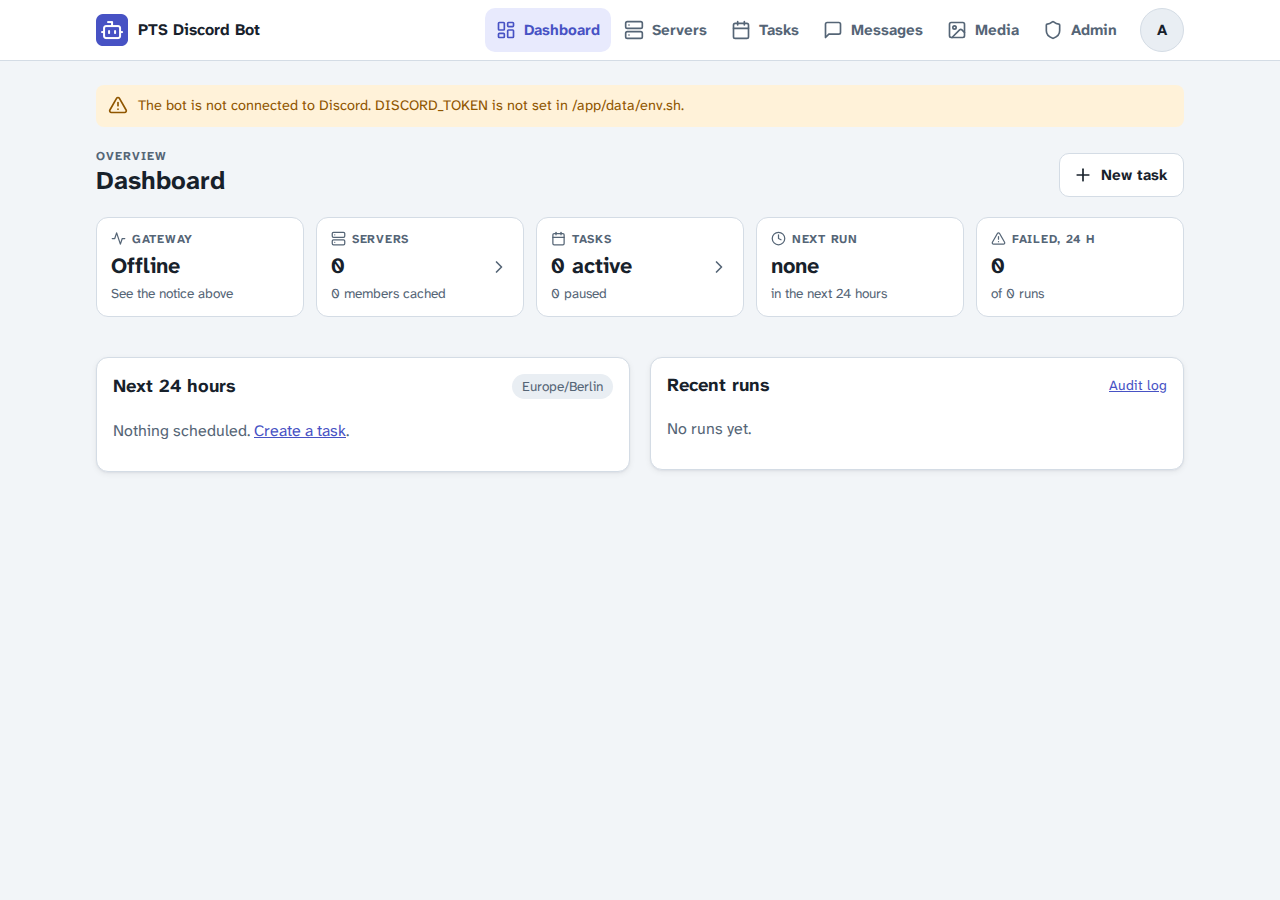
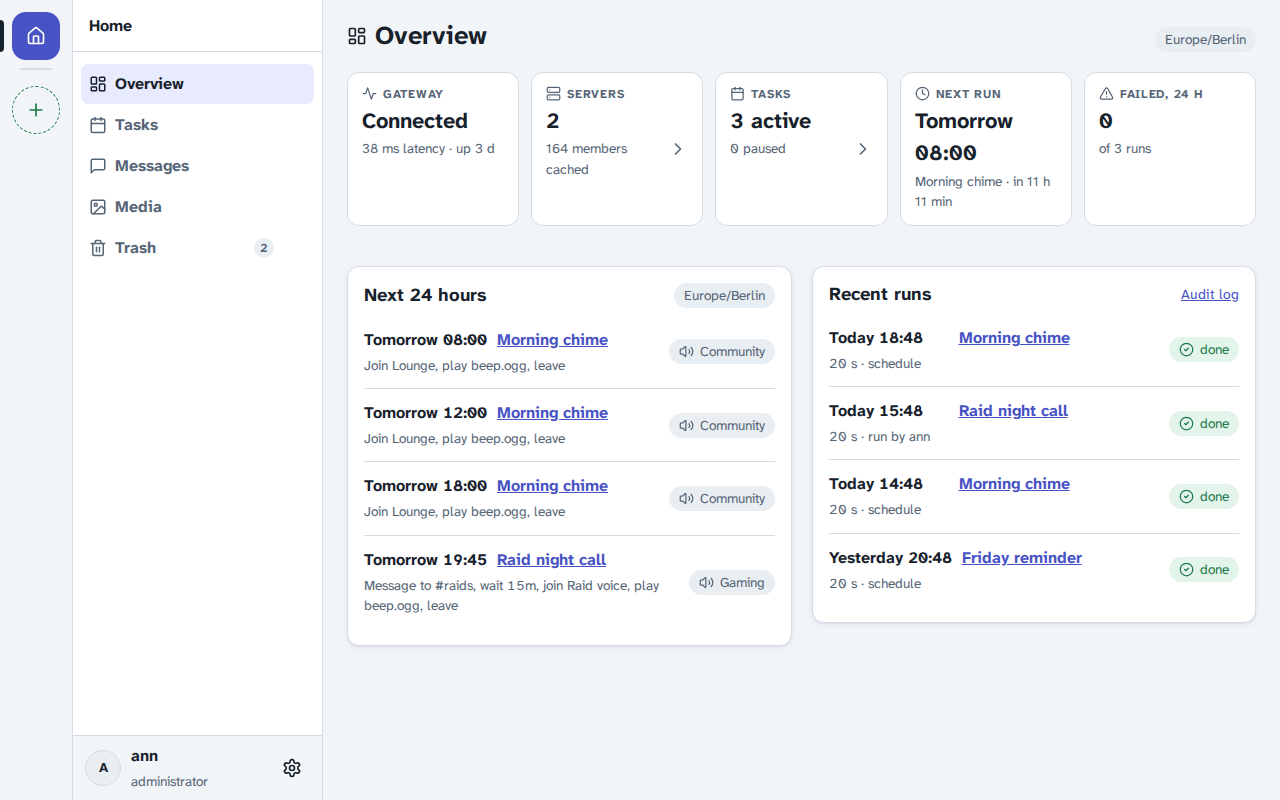
New screenshots with demo data, list them in the README and as mediaLinks
SCREENSHOTS=1 test/e2e/run.sh seeds demo tasks and runs, shows the bot as
connected, and sizes each shot to its full content. New shots: the task
list, the Edit sheet of a sound, and a made up server with its soundboard,
rendered from fixture data by TestScreenshotRoom since the e2e test has no
Discord connection. Test data no longer uses prayer examples or a name
taken from a real server.

diff --git a/internal/web/web_test.go b/internal/web/web_test.go
@@ -32,7 +32,7 @@ func testServer(t *testing.T) *Server {
 func room(view string, ch bot.Channel, more func(*roomData)) roomData {
 	d := roomData{Guild: bot.Guild{ID: "1", Name: "PTS Server", BotVoice: "Lounge", Self: bot.Member{Name: "PTS Bot"}},
 		View: view, Channel: ch, Self: "/room/1?c=" + ch.ID, Paging: paging{Page: 1},
-		Tasks: []taskRow{{Task: tasks.Task{ID: 3, Name: "Adhan", Trigger: tasks.Trigger{Kind: tasks.Daily, Times: []string{"05:00"}}}}}}
+		Tasks: []taskRow{{Task: tasks.Task{ID: 3, Name: "Morning chime", Trigger: tasks.Trigger{Kind: tasks.Daily, Times: []string{"05:00"}}}}}}
 	more(&d)
 	return d
 }
@@ -53,17 +53,17 @@ func TestPagesRender(t *testing.T) {
 	taskID := int64(3)
 	step := 2
 	runs := []store.Run{
-		{ID: 1, TaskID: &taskID, Title: "Adhan", Source: store.SourceSchedule, Status: store.RunDone, StartedAt: now.Add(-time.Hour), FinishedAt: &now},
+		{ID: 1, TaskID: &taskID, Title: "Morning chime", Source: store.SourceSchedule, Status: store.RunDone, StartedAt: now.Add(-time.Hour), FinishedAt: &now},
 		{ID: 2, Title: "Play x.ogg", Source: store.SourceManual, Actor: "ann", Status: store.RunFailed, FailedStep: &step, Error: "Discord error 50001: Missing Access", StartedAt: now},
 	}
-	adhan := tasks.Task{ID: 3, Name: "Adhan", GuildID: "1", Enabled: true, Busy: tasks.BusyWait,
+	chime := tasks.Task{ID: 3, Name: "Morning chime", GuildID: "1", Enabled: true, Busy: tasks.BusyWait,
 		Trigger: tasks.Trigger{Kind: tasks.Daily, Times: []string{"05:00", "16:35"}, Timezone: "Europe/Berlin"},
-		Steps: []tasks.Step{{Type: tasks.Join, ChannelID: "2"}, {Type: tasks.Play, MediaIDs: []int64{5}, Volume: 80}, {Type: tasks.Message, ChannelID: "4", Text: "Adhan at {time}"},
+		Steps: []tasks.Step{{Type: tasks.Join, ChannelID: "2"}, {Type: tasks.Play, MediaIDs: []int64{5}, Volume: 80}, {Type: tasks.Message, ChannelID: "4", Text: "Chime at {time}"},
 			{Type: tasks.DM, UserID: "9"}, {Type: tasks.Wait, Seconds: 5}, {Type: tasks.Leave}}}
-	sound := store.Media{ID: 5, Name: "muezzin.ogg", Kind: store.KindSound, SizeBytes: 2 << 20, DurationMS: 225000, UsedBy: []string{"task Adhan"}}
+	sound := store.Media{ID: 5, Name: "chime.ogg", Kind: store.KindSound, SizeBytes: 2 << 20, DurationMS: 225000, UsedBy: []string{"task Morning chime"}}
 	img := store.Media{ID: 6, Name: "friday.jpg", Kind: store.KindImage, SizeBytes: 1 << 20, Width: 1600, Height: 900}
 	msg := messages.Message{ID: 7, Name: "Friday", Content: "Hi <@123456789012345678> {date}", Files: []int64{6},
-		Embeds: []messages.Embed{{Title: "Prayer", Color: "#112233", ImageMediaID: 6, Fields: []messages.Field{{Name: "Khutbah", Value: "13:15", Inline: true}}}}}
+		Embeds: []messages.Embed{{Title: "Game night", Color: "#112233", ImageMediaID: 6, Fields: []messages.Field{{Name: "Start", Value: "20:00", Inline: true}}}}}
 
 	type page struct {
 		name string
@@ -73,30 +73,30 @@ func TestPagesRender(t *testing.T) {
 	pages := []page{
 		{"login", nil, []string{"Log in with Cloudron"}},
 		{"error", nil, []string{"Something went wrong"}},
-		{"dashboard", dashboardData{Upcoming: []upcoming{{At: now.Add(time.Hour), Task: adhan, Guild: "PTS", What: "Join prayer"}}, Runs: runs, Runs24h: 2, Failed24h: 1,
-			Playing: []playingView{{P: bot.Playing{GuildID: "1", Name: "muezzin.ogg", Channel: "prayer", Started: now, Duration: time.Minute}, CSRF: "tok", Next: "/"}}},
-			[]string{"Adhan", "Missing Access", `action="/servers/1/stop"`, "muezzin.ogg", "of 2 runs"}},
+		{"dashboard", dashboardData{Upcoming: []upcoming{{At: now.Add(time.Hour), Task: chime, Guild: "PTS", What: "Join lounge"}}, Runs: runs, Runs24h: 2, Failed24h: 1,
+			Playing: []playingView{{P: bot.Playing{GuildID: "1", Name: "chime.ogg", Channel: "lounge", Started: now, Duration: time.Minute}, CSRF: "tok", Next: "/"}}},
+			[]string{"Morning chime", "Missing Access", `action="/servers/1/stop"`, "chime.ogg", "of 2 runs"}},
 		{"servers", serversData{Guilds: []bot.Guild{{ID: "1", Name: "PTS Server", MemberCount: 12, Voice: 2, Text: 3, Problems: 1, Missing: []string{"Change Nickname"}}}, InviteURL: "https://discord.com/oauth2/authorize?client_id=1"},
 			[]string{`href="/room/1"`, ">PS<", `data-sortable="/servers/order"`, `data-sort-id="1"`, `name="move" value="1"`, "1 channel without access", "client_id=1", "lacks Change Nickname"}},
 		{"server", serverData{Guild: bot.Guild{ID: "1", Name: "PTS", Missing: []string{"Speak", "Change Nickname"}}, Invite: "https://discord.com/oauth2/authorize?client_id=1",
 			Locked: []bot.Channel{{ID: "4", Name: "rules", Problem: "The bot needs View Channel and Send Messages here."}}},
 			[]string{"rules", "The bot needs View Channel and Send Messages here.", "The bot lacks these server permissions: Speak, Change Nickname.", "client_id=1", `id="invite"`}},
-		{"tasks", tasksData{Guild: bot.Guild{ID: "1", Name: "PTS"}, Rows: []taskRow{{Task: adhan, Guild: "PTS", What: "Join prayer", Next: &now, Last: &runs[0]}}, Counts: map[string]int{"": 1, "active": 1}},
+		{"tasks", tasksData{Guild: bot.Guild{ID: "1", Name: "PTS"}, Rows: []taskRow{{Task: chime, Guild: "PTS", What: "Join lounge", Next: &now, Last: &runs[0]}}, Counts: map[string]int{"": 1, "active": 1}},
 			[]string{"Daily 05:00, 16:35", `action="/tasks/3/pause"`, "Active 1"}},
-		{"task", taskEditor{Task: adhan, StepTypes: tasks.StepTypes, Kinds: tasks.TriggerKinds, Weekdays: tasks.WeekdayNames, TimesText: "05:00 16:35",
-			Voice: []bot.Channel{{ID: "2", Name: "prayer", Voice: true}}, Text: []bot.Channel{{ID: "44", Name: "general"}}, Labels: map[string]string{"9": "Amira (@amira)"},
-			Sounds: []store.Media{sound}, Messages: []messages.Message{msg}, Next: adhan.Trigger.Next(now, 3), Runs: runs, RunCount: 2},
+		{"task", taskEditor{Task: chime, StepTypes: tasks.StepTypes, Kinds: tasks.TriggerKinds, Weekdays: tasks.WeekdayNames, TimesText: "05:00 16:35",
+			Voice: []bot.Channel{{ID: "2", Name: "lounge", Voice: true}}, Text: []bot.Channel{{ID: "44", Name: "general"}}, Labels: map[string]string{"9": "Amira (@amira)"},
+			Sounds: []store.Media{sound}, Messages: []messages.Message{msg}, Next: chime.Trigger.Next(now, 3), Runs: runs, RunCount: 2},
 			[]string{`name="s0.target"`, `value="2" selected`, `name="s0.follow" value=""`, `data-members="1"`, `<input type="hidden" name="s1.media" value="5">`, `data-preview-media="5"`, "Total 3:45 / 10:00", `name="s1.volume" value="80"`, `value="add:wait"`, `value="daily" checked`, "Unknown channel 4", `name="s3.user" value="Amira (@amira)"`, `name="s4.wait" value="5s"`, `action="/tasks/3/delete"`, "As cron"}},
 		{"task", taskEditor{Task: tasks.Task{Trigger: tasks.Trigger{Kind: tasks.Manual}}, New: true, StepTypes: tasks.StepTypes, Kinds: tasks.TriggerKinds, Weekdays: tasks.WeekdayNames, Problems: []string{"Give the task a name."}},
 			[]string{"Create task", "Give the task a name.", `action="/tasks/new"`}},
-		{"messages", messagesData{Rows: []messageRow{{Message: msg, UsedBy: []string{"Adhan"}}}}, []string{`href="/messages/7"`, "1 embed", "1 file"}},
+		{"messages", messagesData{Rows: []messageRow{{Message: msg, UsedBy: []string{"Morning chime"}}}}, []string{`href="/messages/7"`, "1 embed", "1 file"}},
 		{"message", messageEditor{Message: msg, Media: []store.Media{sound, img}, ByID: map[int64]store.Media{5: sound, 6: img}, Embeddable: map[int64]bool{6: true},
 			Names: map[string]string{"123456789012345678": "Amira"}, Limits: map[string]int{"content": 2000, "embeds": 10, "embedTotal": 6000},
 			Channels: []guildChannels{{Guild: bot.Guild{Name: "PTS"}, Text: []bot.Channel{{ID: "4", Name: "general"}}}}},
 			[]string{`<span class="dmention">@Amira</span>`, "Formatting help", `id="sheet-md"`, `data-md="Hi &lt;@123456789012345678&gt; `, `fill="#112233"`, `name="e0.f0.inline" checked`, `src="/media/6/file"`, `action="/messages/7/send"`, `name="file" value="6"`}},
 		{"media", mediaData{Items: []store.Media{sound, img, {ID: 8, Name: "big.mp4", Kind: store.KindVideo, SizeBytes: 30 << 20}}, Counts: map[string]int{"": 3, "sound": 1}, MaxUploadMB: 100,
-			Voice: []voiceGroup{{Guild: bot.Guild{Name: "PTS"}, Voice: []bot.Channel{{ID: "2", Name: "prayer"}}}}},
-			[]string{`id="sheet-play-5"`, `data-preview-media="5" data-name="muezzin.ogg"`, "over 20 MB", "used by task Adhan", "3:45", `enctype="multipart/form-data"`}},
+			Voice: []voiceGroup{{Guild: bot.Guild{Name: "PTS"}, Voice: []bot.Channel{{ID: "2", Name: "lounge"}}}}},
+			[]string{`id="sheet-play-5"`, `data-preview-media="5" data-name="chime.ogg"`, "over 20 MB", "used by task Morning chime", "3:45", `enctype="multipart/form-data"`}},
 		{"room", roomData{}, []string{"The bot is in no server you may manage yet."}},
 		{"room", room("voice", bot.Channel{ID: "2", Name: "Lounge", Voice: true, Usable: true, HasBot: true}, func(d *roomData) {
 			horn := sound
@@ -118,13 +118,13 @@ func TestPagesRender(t *testing.T) {
 		}), []string{`action="/room/1/send"`, `name="channel" value="4"`, `<option value="7">Friday</option>`, "Tasks that use #general", `href="/tasks/new?guild=1&amp;post=4"`}},
 		{"room", room("member", bot.Channel{}, func(d *roomData) {
 			d.Member = bot.Member{ID: "9", Name: "Mira", Username: "mira", VoiceID: "2", Voice: "Lounge"}
-			d.Greets = []tasks.Task{adhan, adhan}
+			d.Greets = []tasks.Task{chime, chime}
 			d.Tasks[0].Run = 77
 		}), []string{"@mira · in Lounge", "2 tasks start when Mira joins", `name="member" value="9"`, `href="/tasks/new?guild=1&amp;member=9"`, `action="/runs/77/stop"`, `<span class="chip accent">running</span>`, "Tasks that leave Mira out"}},
 		{"settings", nil, []string{`name="confirm_actions" checked`, `action="/account"`, "data-autosave"}},
 		{"admin", adminData{Tab: "overview", Admins: []string{"ann"}, Groups: []string{"bot-admins"}}, []string{"BOT_ADMIN_GROUP", "bot-admins"}},
 		{"admin", adminData{Tab: "settings", Settings: store.DefaultSettings, Timezones: commonTimezones}, []string{`name="max_play_minutes" value="10"`, `value="Europe/Berlin"`}},
-		{"admin", adminData{Tab: "audit", Paging: paging{Page: 1, path: "/admin/audit"}, Audit: []store.AuditEntry{{At: now, Actor: "ann", Action: "task.run", Target: "Adhan"}}}, []string{"task.run"}},
+		{"admin", adminData{Tab: "audit", Paging: paging{Page: 1, path: "/admin/audit"}, Audit: []store.AuditEntry{{At: now, Actor: "ann", Action: "task.run", Target: "Morning chime"}}}, []string{"task.run"}},
 	}
 	for _, p := range pages {
 		req := httptest.NewRequest("GET", "/?done=saved", nil)
@@ -153,7 +153,7 @@ func TestPagesRender(t *testing.T) {
 
 func TestParseTask(t *testing.T) {
 	form := url.Values{
-		"name": {" Adhan "}, "guild": {"1"}, "enabled": {"on"}, "busy": {"skip"}, "kind": {"weekly"}, "times": {"16:35, 5:00"}, "weekday": {"5", "1", "5"},
+		"name": {" Morning chime "}, "guild": {"1"}, "enabled": {"on"}, "busy": {"skip"}, "kind": {"weekly"}, "times": {"16:35, 5:00"}, "weekday": {"5", "1", "5"},
 		"timezone": {"Europe/Berlin"}, "cron": {"0 1 * * *"}, "steps": {"5"},
 		"s0.type": {"join"}, "s0.target": {"member"}, "s0.follow": {" Amira (@amira) "},
 		"s1.type": {"play"}, "s1.media": {"3", "5"}, "s1.order": {"random"}, "s1.volume": {"80"},
@@ -168,7 +168,7 @@ func TestParseTask(t *testing.T) {
 	if len(bad) != 0 {
 		t.Fatalf("problems: %v", bad)
 	}
-	if task.Name != "Adhan" || task.Busy != tasks.BusySkip || task.Trigger.Kind != tasks.Weekly {
+	if task.Name != "Morning chime" || task.Busy != tasks.BusySkip || task.Trigger.Kind != tasks.Weekly {
 		t.Errorf("basics: %+v", task)
 	}
 	if len(task.Trigger.Cron) != 0 || len(task.Trigger.Weekdays) != 2 || task.Trigger.Times[0] != "05:00" {
@@ -240,7 +240,7 @@ func TestWhen(t *testing.T) {
 
 func TestParseEventTask(t *testing.T) {
 	form := url.Values{
-		"name": {"Greeting"}, "guild": {"1"}, "slash": {"on"}, "kind": {"event"}, "event": {"message"}, "event_channel": {"5"}, "keyword": {" adhan "},
+		"name": {"Greeting"}, "guild": {"1"}, "slash": {"on"}, "kind": {"event"}, "event": {"message"}, "event_channel": {"5"}, "keyword": {" chime "},
 		"cooldown": {"1m"}, "ev_except": {"on"}, "times": {"05:00"}, "steps": {"3"}, "ev_member": {" Amira (@amira) ", "", "Amira (@amira)", "Bilal"},
 		"s0.type": {"join"}, "s0.target": {"trigger"},
 		"s1.type": {"play"}, "s1.media": {"tag:greeting"}, "s1.volume": {"100"},
@@ -254,7 +254,7 @@ func TestParseEventTask(t *testing.T) {
 		t.Fatalf("problems: %v", bad)
 	}
 	tr := task.Trigger
-	if !task.Slash || tr.Kind != tasks.Event || tr.Event != tasks.MessageIn || tr.ChannelID != "5" || tr.Keyword != "adhan" || tr.Cooldown != 60 || !tr.Except || len(tr.Times) != 0 || strings.Join(tr.UserIDs, "|") != "Amira (@amira)|Bilal" {
+	if !task.Slash || tr.Kind != tasks.Event || tr.Event != tasks.MessageIn || tr.ChannelID != "5" || tr.Keyword != "chime" || tr.Cooldown != 60 || !tr.Except || len(tr.Times) != 0 || strings.Join(tr.UserIDs, "|") != "Amira (@amira)|Bilal" {
 		t.Errorf("trigger: %+v slash=%v", tr, task.Slash)
 	}
 	if !task.Steps[0].ToTrigger || task.Steps[1].Tag != "greeting" || len(task.Steps[1].MediaIDs) != 0 || !task.Steps[2].ToTrigger || task.Steps[2].UserID != "" {
@@ -491,7 +491,7 @@ func TestConfirmAndPreviewMarkup(t *testing.T) {
 		}
 		return b.String()
 	}
-	task := tasks.Task{ID: 3, Name: "Adhan", GuildID: "1", Trigger: tasks.Trigger{Kind: tasks.Manual}}
+	task := tasks.Task{ID: 3, Name: "Morning chime", GuildID: "1", Trigger: tasks.Trigger{Kind: tasks.Manual}}
 	editor := taskEditor{Task: task, StepTypes: tasks.StepTypes, Kinds: tasks.TriggerKinds, Weekdays: tasks.WeekdayNames}
 
 	body := render("task", editor, store.DefaultPrefs)
@@ -521,11 +521,11 @@ func TestConfirmAndPreviewMarkup(t *testing.T) {
 		t.Error("message: delete button without data-confirm-desc or with a name field")
 	}
 
-	sound := store.Media{ID: 5, Name: "muezzin.ogg", Kind: store.KindSound, DurationMS: 225000}
+	sound := store.Media{ID: 5, Name: "chime.ogg", Kind: store.KindSound, DurationMS: 225000}
 	video := store.Media{ID: 8, Name: "clip.mp4", Kind: store.KindVideo}
 	body = render("media", mediaData{Items: []store.Media{sound, video}, Counts: map[string]int{}}, store.DefaultPrefs)
-	for _, want := range []string{`<button type="button" class="preview-tile js-only" data-preview-media="5" data-name="muezzin.ogg" aria-label="Preview muezzin.ogg" data-tip="Preview muezzin.ogg" aria-pressed="false">`,
-		`<span class="row-sub" data-preview-detail>3:45`, `data-confirm-desc="Moves muezzin.ogg to the Trash."`} {
+	for _, want := range []string{`<button type="button" class="preview-tile js-only" data-preview-media="5" data-name="chime.ogg" aria-label="Preview chime.ogg" data-tip="Preview chime.ogg" aria-pressed="false">`,
+		`<span class="row-sub" data-preview-detail>3:45`, `data-confirm-desc="Moves chime.ogg to the Trash."`} {
 		if !strings.Contains(body, want) {
 			t.Errorf("media: missing %q", want)
 		}
@@ -538,11 +538,11 @@ func TestConfirmAndPreviewMarkup(t *testing.T) {
 func TestTrashRender(t *testing.T) {
 	s := testServer(t)
 	now := time.Now()
-	daily := tasks.Task{ID: 3, Name: "Adhan", Trigger: tasks.Trigger{Kind: tasks.Daily, Times: []string{"05:00"}, Timezone: "UTC"}, Steps: []tasks.Step{{Type: tasks.Leave}}}
+	daily := tasks.Task{ID: 3, Name: "Morning chime", Trigger: tasks.Trigger{Kind: tasks.Daily, Times: []string{"05:00"}, Timezone: "UTC"}, Steps: []tasks.Step{{Type: tasks.Leave}}}
 	msg := messages.Message{ID: 7, Name: "Friday", Files: []int64{6}}
 	sound := store.Media{ID: 5, Name: "intro.ogg", Kind: store.KindSound, SizeBytes: 2048, DurationMS: 3000}
 	d := trashData{Days: 30, Paging: paging{Page: 1, path: "/trash"}, Counts: map[string]int{"": 3, "task": 1, "message": 1, "media": 1}, Rows: []trashRow{
-		{TrashItem: store.TrashItem{Kind: store.TrashTask, ID: 3, Name: "Adhan", DeletedAt: now, DeletedBy: "ann", Task: &daily}, DaysLeft: 30},
+		{TrashItem: store.TrashItem{Kind: store.TrashTask, ID: 3, Name: "Morning chime", DeletedAt: now, DeletedBy: "ann", Task: &daily}, DaysLeft: 30},
 		{TrashItem: store.TrashItem{Kind: store.TrashMessage, ID: 7, Name: "Friday", DeletedAt: now.Add(-3 * time.Hour), DeletedBy: "bob", Message: &msg}, DaysLeft: 1},
 		{TrashItem: store.TrashItem{Kind: store.TrashMedia, ID: 5, Name: "intro.ogg", DeletedAt: now.Add(-30 * 24 * time.Hour), DeletedBy: "ann", Media: &sound}, RestoreAs: "intro (restored).ogg"},
 	}}
@@ -665,7 +665,7 @@ func TestListSearchAndPager(t *testing.T) {
 		return p
 	}
 	sound := store.Media{ID: 5, Name: "beep.ogg", Kind: store.KindSound, Tags: []string{"fun"}}
-	task := tasks.Task{ID: 3, Name: "Adhan", GuildID: "1", Trigger: tasks.Trigger{Kind: tasks.Manual}}
+	task := tasks.Task{ID: 3, Name: "Morning chime", GuildID: "1", Trigger: tasks.Trigger{Kind: tasks.Manual}}
 	more := func(p paging) paging { p.More = true; return p }
 	cases := []struct {
 		name, target string

diff --git a/internal/web/shots_test.go b/internal/web/shots_test.go
@@ -1,0 +1,100 @@
+package web
+
+import (
+	"context"
+	"net/http"
+	"net/http/httptest"
+	"os"
+	"path/filepath"
+	"testing"
+	"time"
+
+	"github.com/BrutalBirdie/pts-discord-bot/internal/bot"
+	"github.com/BrutalBirdie/pts-discord-bot/internal/store"
+	"github.com/BrutalBirdie/pts-discord-bot/internal/tasks"
+)
+
+// TestScreenshotRoom writes the soundboard of a made up server for the screenshots of test/e2e/run.sh,
+// which has no Discord connection to show a real one.
+func TestScreenshotRoom(t *testing.T) {
+	dir := os.Getenv("SCREENSHOT_DIR")
+	if dir == "" {
+		t.Skip("SCREENSHOT_DIR is not set")
+	}
+	s := testServer(t)
+	sess := &store.Session{Username: "ann", DisplayName: "ann", IsAdmin: true, CSRFToken: "tok"}
+
+	member := func(id, name, status, group, color, voice string) bot.Member {
+		m := bot.Member{ID: id, Name: name, Username: name, Status: status, Online: status != "offline", Group: group, Color: color}
+		if voice != "" {
+			m.VoiceID, m.Voice = "20", voice
+		}
+		return m
+	}
+	members := []bot.Member{
+		member("1", "Robin", "online", "Admins", "#e67e22", "Lounge"),
+		member("2", "Sam", "dnd", "Moderators", "#3498db", "Lounge"),
+		member("3", "Kai", "idle", "Moderators", "#3498db", ""),
+		member("4", "Alex", "online", "", "", "Lounge"),
+		member("5", "Jo", "online", "", "", ""),
+		member("6", "Mika", "online", "", "", ""),
+		member("7", "Noa", "idle", "", "", ""),
+		member("8", "Lee", "offline", "", "", ""),
+		member("9", "Pat", "offline", "", "", ""),
+	}
+	members[0].GroupPos, members[1].GroupPos, members[2].GroupPos = 2, 1, 1
+	members[3].Mobile = true
+	members[4].Activity, members[4].Doing = "Minecraft", "playing"
+	groups, hidden, more := memberList(members, "", 1, true)
+	inVoice := []bot.Member{members[0], members[1], members[3]}
+
+	lounge := bot.Channel{ID: "20", Name: "Lounge", Voice: true, Usable: true, HasBot: true, People: inVoice}
+	guild := bot.Guild{ID: "1", Name: "Community", MemberCount: 164, BotVoice: "Lounge", Self: bot.Member{Name: "PTS Bot", Bot: true}}
+
+	sound := func(id int64, name, emoji string, ms int, tags ...string) soundTile {
+		return soundTile{Media: store.Media{ID: id, Name: name, Kind: store.KindSound, DurationMS: ms, Emoji: emoji, Tags: tags}}
+	}
+	now := time.Now()
+	horn := tasks.Task{ID: 1, Name: "Raid horn", GuildID: "1", Enabled: true, Trigger: tasks.Trigger{Kind: tasks.Event, Event: tasks.VoiceJoin, Timezone: "Europe/Berlin"},
+		Steps: []tasks.Step{{Type: tasks.Join, ToTrigger: true}, {Type: tasks.Play, MediaIDs: []int64{1}}, {Type: tasks.Leave}}}
+	chime := tasks.Task{ID: 2, Name: "Morning chime", GuildID: "1", Enabled: true, Trigger: tasks.Trigger{Kind: tasks.Daily, Times: []string{"08:00", "12:00", "18:00"}, Timezone: "Europe/Berlin"},
+		Steps: []tasks.Step{{Type: tasks.Join, ChannelID: "20"}, {Type: tasks.Play, MediaIDs: []int64{1}}, {Type: tasks.Leave}}}
+	next := now.Add(11 * time.Hour)
+	d := roomData{Guild: guild, View: "voice", Channel: lounge, Self: "/room/1?c=20", Paging: paging{Page: 1},
+		Playing: []playingView{{P: bot.Playing{GuildID: "1", ChannelID: "20", Channel: "Lounge", Name: "airhorn.ogg", By: "Robin", Started: now.Add(-2 * time.Second), Duration: 6 * time.Second}, CSRF: "tok", Next: "/room/1?c=20"}},
+		Favorites: []soundTile{
+			{Media: sound(1, "airhorn.ogg", "📯", 6000, "fun").Media, Fav: true},
+			{Media: sound(2, "drumroll.ogg", "🥁", 4000, "music").Media, Fav: true},
+			{Media: sound(3, "applause.ogg", "👏", 5000, "fun").Media, Fav: true},
+		},
+		Own: []soundTile{sound(4, "raid-start.ogg", "⚔", 3000, "alerts"), sound(5, "victory.ogg", "🏆", 7000, "music")},
+		Rest: []soundTile{
+			sound(6, "sad-trombone.ogg", "🎺", 3000, "fun"), sound(7, "doorbell.ogg", "🔔", 2000, "alerts"), sound(8, "rimshot.ogg", "😂", 2000, "fun"),
+			sound(9, "cheer.ogg", "🎉", 4000, "fun"), sound(10, "level-up.ogg", "⭐", 2000, "music"), sound(11, "countdown.ogg", "⏱", 10000, "alerts"),
+			sound(12, "crickets.ogg", "🦗", 5000, "fun"), sound(13, "bell.ogg", "🛎", 1000, "alerts"),
+		},
+		SoundTags: []store.SoundTag{{Name: "fun", Count: 6, Emoji: "🎉"}, {Name: "music", Count: 3, Emoji: "🎵"}, {Name: "alerts", Count: 4, Emoji: "🔔"}},
+		Tasks:     []taskRow{{Task: chime, What: "join Lounge, play airhorn.ogg, leave", Next: &next}, {Task: horn, What: "join the member, play airhorn.ogg, leave"}},
+	}
+	sh := &shell{Guilds: []bot.Guild{guild, {ID: "2", Name: "Gaming"}, {ID: "3", Name: "Book Club"}}, Guild: guild, Path: d.Self, Channel: "20",
+		Text: []roomChannel{
+			{Channel: bot.Channel{ID: "10", Name: "general", Usable: true}},
+			{Channel: bot.Channel{ID: "11", Name: "announcements", Usable: true}, Tasks: 1},
+			{Channel: bot.Channel{ID: "12", Name: "raids", Usable: true}, Tasks: 1},
+			{Channel: bot.Channel{ID: "13", Name: "memes", Usable: true}},
+		},
+		Voice: []roomChannel{
+			{Channel: lounge, Tasks: 2, Current: true},
+			{Channel: bot.Channel{ID: "21", Name: "Raid voice", Voice: true, Usable: true}, Tasks: 1},
+			{Channel: bot.Channel{ID: "22", Name: "AFK", Voice: true, Usable: true}},
+		},
+		TaskCount: 3, Members: true, MGroups: groups, MHidden: hidden, MMore: more, MPage: 1, Presence: true}
+
+	req := httptest.NewRequest("GET", d.Self, nil)
+	req = req.WithContext(context.WithValue(req.Context(), ctxKey{}, sess))
+	rec := httptest.NewRecorder()
+	s.execute(rec, req, http.StatusOK, "room", pageData{Session: sess, Prefs: store.DefaultPrefs, Data: d, Shell: sh})
+	if err := os.WriteFile(filepath.Join(dir, "room.html"), rec.Body.Bytes(), 0o644); err != nil {
+		t.Fatal(err)
+	}
+}

diff --git a/internal/tasks/tasks_test.go b/internal/tasks/tasks_test.go
@@ -85,7 +85,7 @@ func TestManualHasNoSchedule(t *testing.T) {
 }
 
 func TestProblems(t *testing.T) {
-	task := Task{Name: "Adhan", GuildID: "1", Trigger: Trigger{Kind: Daily, Times: []string{"05:00"}, Timezone: "Europe/Berlin"},
+	task := Task{Name: "Morning chime", GuildID: "1", Trigger: Trigger{Kind: Daily, Times: []string{"05:00"}, Timezone: "Europe/Berlin"},
 		Steps: []Step{{Type: Join, ChannelID: "2"}, {Type: Play, MediaIDs: []int64{1}, Volume: 100}, {Type: Leave}}}
 	if p := task.Problems(); len(p) != 0 {
 		t.Errorf("valid task: %v", p)
@@ -100,11 +100,11 @@ func TestProblems(t *testing.T) {
 }
 
 func TestEventTrigger(t *testing.T) {
-	tr := Trigger{Kind: Event, Event: MessageIn, Keyword: " Adhan ", ChannelID: "5"}
+	tr := Trigger{Kind: Event, Event: MessageIn, Keyword: " Chime ", ChannelID: "5"}
 	if err := tr.Validate(); err != nil {
 		t.Fatal(err)
 	}
-	if !tr.Matches(MessageIn, "5", "7", "when is ADHAN today?") || tr.Matches(MessageIn, "6", "7", "adhan") || tr.Matches(MessageIn, "5", "7", "hello") || tr.Matches(VoiceJoin, "5", "7", "adhan") {
+	if !tr.Matches(MessageIn, "5", "7", "when is CHIME today?") || tr.Matches(MessageIn, "6", "7", "chime") || tr.Matches(MessageIn, "5", "7", "hello") || tr.Matches(VoiceJoin, "5", "7", "chime") {
 		t.Error("message matching")
 	}
 	if (Trigger{Kind: Event, Event: VoiceJoin}).Matches(VoiceJoin, "9", "7", "") != true {

diff --git a/internal/messages/messages_test.go b/internal/messages/messages_test.go
@@ -7,7 +7,7 @@ import (
 )
 
 func TestProblems(t *testing.T) {
-	ok := Message{Name: "Friday", Content: "Jumu’ah", Embeds: []Embed{{Title: "Friday prayer", Color: "#4752c4", Fields: []Field{{Name: "Khutbah", Value: "13:15"}}}}}
+	ok := Message{Name: "Friday", Content: "Game night", Embeds: []Embed{{Title: "Game night", Color: "#4752c4", Fields: []Field{{Name: "Start", Value: "20:00"}}}}}
 	if p := ok.Problems(); len(p) != 0 {
 		t.Errorf("valid message: %v", p)
 	}

diff --git a/README.md b/README.md
@@ -13,7 +13,15 @@ Cloudron app with a Discord bot and a web UI to control it. Sign in with your Cl
 * Member search when picking who gets a direct message, whose voice channel to join, or whom to mention
 * Run history, failure posts to a channel, audit log
 
-![Dashboard](screenshots/dashboard.png)
+![Overview](screenshots/dashboard.png)
+
+| Tasks | Task editor |
+| --- | --- |
+| ![Tasks](screenshots/tasks.png) | ![Task editor](screenshots/task.png) |
+| **Saved message** | **Media library** |
+| ![Saved message](screenshots/message.png) | ![Media library](screenshots/media.png) |
+| **Server with soundboard** | **Edit a sound** |
+| ![Server with soundboard](screenshots/room.png) | ![Edit a sound](screenshots/media-edit.png) |
 
 ## Install
 
@@ -36,7 +44,7 @@ Changes per version are in the [releases](https://github.com/BrutalBirdie/pts-di
 
 ## Upgrading from 0.2
 
-Sound files in `/app/data/sounds` move into the media library on the first start. The HTTP API (`POST /play`) and the n8n workflow are gone: recreate the schedule as a task. The old Adhan workflow is a daily task with the times `05:00 11:50 14:00 16:35 18:15`, timezone `Europe/Berlin`, and the steps Join voice channel, Play sound, Leave voice channel.
+Sound files in `/app/data/sounds` move into the media library on the first start. The HTTP API (`POST /play`) and the n8n workflow are gone: recreate the schedule as a task: a daily task with the same times and the steps Join voice channel, Play sound, Leave voice channel.
 
 ## Discord permissions
 
